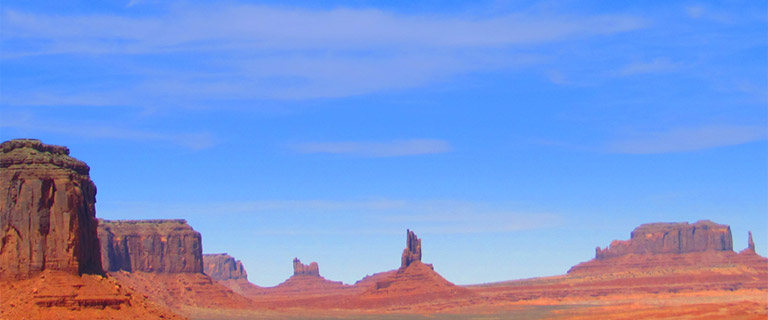
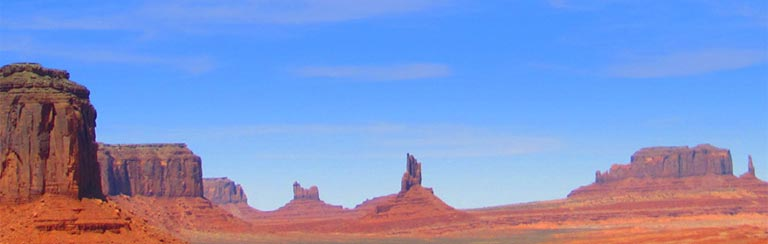
Quick edits to splash and reviews header
chopped the mobile splash image and edited the reviews header to reduce
possibility of links flowing onto two lines.

diff --git a/css/application.css b/css/application.css
@@ -438,8 +438,8 @@ footer {
         -o-background-size: cover;
         -moz-background-size: cover; } }
   .splash-landing {
-    margin-top: 5.625em;
-    margin-bottom: 7.5em; }
+    margin-top: 3.125em;
+    margin-bottom: 6.25em; }
     @media (min-width: 769px) {
       .splash-landing {
         margin-top: 7.5em;
@@ -478,7 +478,7 @@ p.list-panel:last-child {
     padding-top: 0.9375em;
     padding-bottom: 0em;
     display: inline-block;
-    padding-left: 1.25em; }
+    padding-left: 0.625em; }
     .sub-links-active a {
       color: #01a4fd; }
 
@@ -603,7 +603,7 @@ p.list-panel:last-child {
     float: left;
     display: block;
     margin-right: 2.3576515979%;
-    width: 48.821174201%;
+    width: 40.2913699012%;
     padding: 0px 10px 2.3576515979%; }
     .cols-half-submenu-1:last-child {
       margin-right: 0; }
@@ -630,7 +630,7 @@ p.list-panel:last-child {
     float: left;
     display: block;
     margin-right: 2.3576515979%;
-    width: 48.821174201%;
+    width: 57.3509785009%;
     padding: 0px 10px 2.3576515979%; }
     .cols-half-submenu-2:last-child {
       margin-right: 0; }

diff --git a/scss/layout/_panel.scss b/scss/layout/_panel.scss
@@ -216,7 +216,7 @@
     }
 
   	&-landing {
-        @include margin-vertical(90px, 120px);
+        @include margin-vertical(50px, 100px);
     
         @include mq(medium) {
             @include margin-vertical(120px, 0px);
@@ -356,7 +356,7 @@ p.list-panel:last-child {
 		padding-bottom: em(0px);
 		display: inline-block;
 		//text-align: left;
-		padding-left: em(20px);
+		padding-left: em(10px);
 		a {
 		color: $color-primary;
 		}

diff --git a/scss/layout/_grid.scss b/scss/layout/_grid.scss
@@ -64,9 +64,9 @@
     }
 
     &-submenu-1 {	
-   //border: 1px solid #f00;
+//border: 1px solid #f00;
 
-  		@include span-columns(6);
+  		@include span-columns(5);
   		@include pad(0px 10px default);
 
 
@@ -94,9 +94,9 @@
 
 	
     &-submenu-2 {	
-   //border: 1px solid #f00;
+//border: 1px solid #f00;
 
-  		@include span-columns(6);
+  		@include span-columns(7);
   		@include pad(0px 10px default);
 
 
